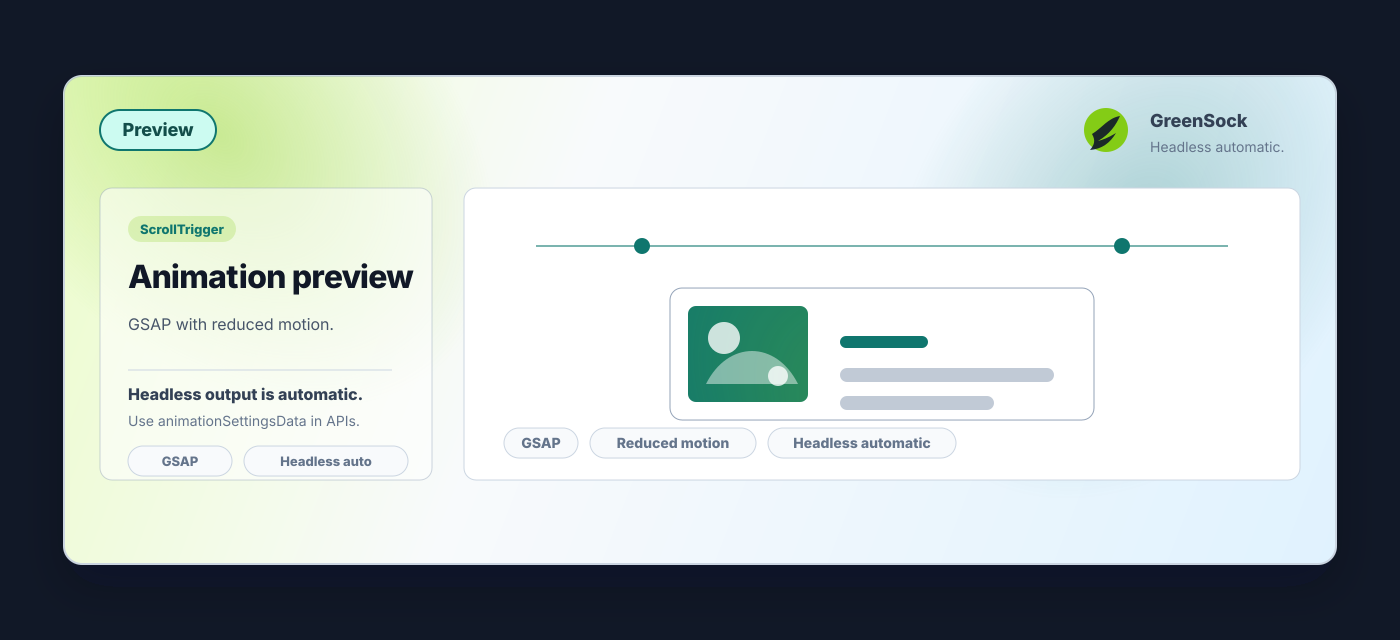
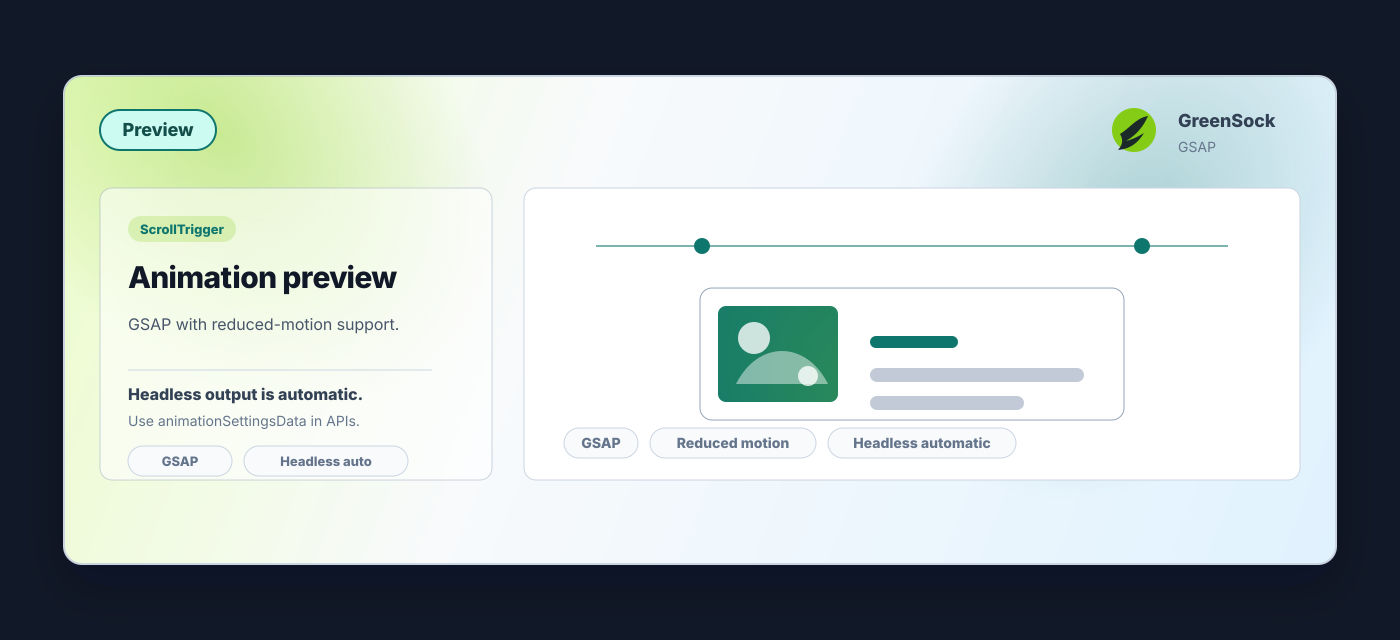
Release v3.5.1 preview overflow fix

diff --git a/Resources/Public/Styles/animation-preview.css b/Resources/Public/Styles/animation-preview.css
@@ -55,11 +55,13 @@
 
 #preview-content-animation .preview-brand {
     gap: 8px;
-    max-width: 58%;
+    flex: 0 0 auto;
+    max-width: 140px;
     color: var(--pc-preview-muted);
     font-size: 12px;
-    font-weight: 700;
+    font-weight: 800;
     text-align: right;
+    white-space: nowrap;
 }
 
 #preview-content-animation .preview-brand-logo {
@@ -81,7 +83,7 @@
 
 #preview-content-animation .preview-shell {
     display: grid;
-    grid-template-columns: minmax(0, 260px) minmax(0, 1fr);
+    grid-template-columns: minmax(280px, 340px) minmax(0, 1fr);
     gap: 16px;
     align-items: stretch;
     min-width: 0;
@@ -121,7 +123,7 @@
 
 #preview-content-animation .preview-description,
 #preview-content-animation .preview-headless-note {
-    max-width: 24ch;
+    max-width: 30ch;
     color: var(--pc-preview-panel-muted);
     font-size: 13px;
     line-height: 1.45;
@@ -130,7 +132,7 @@
 
 #preview-content-animation .preview-headless-note {
     display: block;
-    max-width: 28ch;
+    max-width: 32ch;
     margin-top: 14px;
     padding-top: 12px;
     border-top: 1px solid rgb(148 163 184 / 32%);
@@ -338,7 +340,6 @@
 
     #preview-content-animation .preview-brand {
         align-self: flex-start;
-        max-width: 100%;
         text-align: left;
     }
 

diff --git a/Resources/Public/Styles/animation-preview.min.css b/Resources/Public/Styles/animation-preview.min.css
@@ -55,11 +55,13 @@
 
 #preview-content-animation .preview-brand {
     gap: 8px;
-    max-width: 58%;
+    flex: 0 0 auto;
+    max-width: 140px;
     color: var(--pc-preview-muted);
     font-size: 12px;
-    font-weight: 700;
+    font-weight: 800;
     text-align: right;
+    white-space: nowrap;
 }
 
 #preview-content-animation .preview-brand-logo {
@@ -81,7 +83,7 @@
 
 #preview-content-animation .preview-shell {
     display: grid;
-    grid-template-columns: minmax(0, 260px) minmax(0, 1fr);
+    grid-template-columns: minmax(280px, 340px) minmax(0, 1fr);
     gap: 16px;
     align-items: stretch;
     min-width: 0;
@@ -121,7 +123,7 @@
 
 #preview-content-animation .preview-description,
 #preview-content-animation .preview-headless-note {
-    max-width: 24ch;
+    max-width: 30ch;
     color: var(--pc-preview-panel-muted);
     font-size: 13px;
     line-height: 1.45;
@@ -130,7 +132,7 @@
 
 #preview-content-animation .preview-headless-note {
     display: block;
-    max-width: 28ch;
+    max-width: 32ch;
     margin-top: 14px;
     padding-top: 12px;
     border-top: 1px solid rgb(148 163 184 / 32%);
@@ -338,7 +340,6 @@
 
     #preview-content-animation .preview-brand {
         align-self: flex-start;
-        max-width: 100%;
         text-align: left;
     }
 

diff --git a/Classes/Form/Elements/AnimationPreviewField.php b/Classes/Form/Elements/AnimationPreviewField.php
@@ -212,7 +212,6 @@ class AnimationPreviewField extends AbstractFormElement
         $html[] = '</div>';
 
         $previewLabel = LocalizationUtility::translate('LLL:EXT:content_gsap_animation/Resources/Private/Language/locallang_be.xlf:preview-label');
-        $previewHelp = LocalizationUtility::translate('LLL:EXT:content_gsap_animation/Resources/Private/Language/locallang_be.xlf:preview-help');
         $gsapLogoPath = GeneralUtility::getFileAbsFileName(
             'EXT:content_gsap_animation/Resources/Public/Images/gsap-greensock.svg'
         );
@@ -223,15 +222,15 @@ class AnimationPreviewField extends AbstractFormElement
         $html[] = '<span class="preview-label" data-show-preview="false">' . htmlspecialchars((string)($previewLabel ?? ''), ENT_COMPAT, 'UTF-8', false) . '</span>';
         $html[] = '<span class="preview-brand">';
         $html[] = '<span class="preview-brand-logo" style="background-image: url(' . htmlspecialchars($gsapLogoWebPath, ENT_COMPAT, 'UTF-8', false) . ');" aria-hidden="true"></span>';
-        $html[] = '<span>' . htmlspecialchars((string)($previewHelp ?? ''), ENT_COMPAT, 'UTF-8', false) . '</span>';
+        $html[] = '<span>GSAP</span>';
         $html[] = '</span>';
         $html[] = '</div>';
         $html[] = '<div class="preview-shell">';
         $html[] = '<div class="preview-copy" aria-hidden="true">';
         $html[] = '<span class="preview-kicker">ScrollTrigger</span>';
         $html[] = '<span class="preview-title">Animation preview</span>';
-        $html[] = '<span class="preview-description">GSAP animation with reduced-motion support.</span>';
-        $html[] = '<span class="preview-headless-note">Headless output is automatic: use animationSettingsData.</span>';
+        $html[] = '<span class="preview-description">GSAP with reduced-motion support.</span>';
+        $html[] = '<span class="preview-headless-note">Headless is automatic. Use animationSettingsData.</span>';
         $html[] = '</div>';
         $html[] = '<div class="preview-stage">';
         $html[] = '<div class="preview-stage__rail" aria-hidden="true"></div>';

diff --git a/ext_emconf.php b/ext_emconf.php
@@ -15,7 +15,7 @@ $EM_CONF[$_EXTKEY] = [
     'uploadfolder' => 0,
     'createDirs' => '',
     'clearCacheOnLoad' => 0,
-    'version' => '3.5.0',
+    'version' => '3.5.1',
     'constraints' => [
         'depends' => [
             'typo3' => '12.4.0-14.4.99',

diff --git a/ChangeLog.md b/ChangeLog.md
@@ -4,6 +4,12 @@ All notable changes to this project will be documented in this file.
 The format is based on [Keep a Changelog](https://keepachangelog.com/en/1.0.0/),
 and this project adheres to [Semantic Versioning](https://semver.org/spec/v2.0.0.html).
 
+## 3.5.1 - 2026-06-03
+### Fixed
+- [FIX] Shortened backend preview copy so text cannot leave the preview panel.
+- [FIX] Reduced the top GSAP branding to a compact logo label.
+- [FIX] Regenerated documentation and release preview images without clipped text.
+
 ## 3.5.0 - 2026-06-03
 ### Changed
 - [IMPROVEMENT] Improved backend preview readability in TYPO3 dark mode.

diff --git a/Documentation/ChangeLog/Index.rst b/Documentation/ChangeLog/Index.rst
@@ -12,6 +12,16 @@ All notable changes to this project will be documented in this file.
 The format is based on `Keep a Changelog <https://keepachangelog.com/en/1.0.0/>`_,
 and this project adheres to `Semantic Versioning <https://semver.org/spec/v2.0.0.html>`_.
 
+3.5.1 - 2026-06-03
+==================
+
+Fixed
+-----
+
+* Shortened backend preview copy so text cannot leave the preview panel.
+* Reduced the top GSAP branding to a compact logo label.
+* Regenerated documentation and release preview images without clipped text.
+
 3.5.0 - 2026-06-03
 ==================
 
